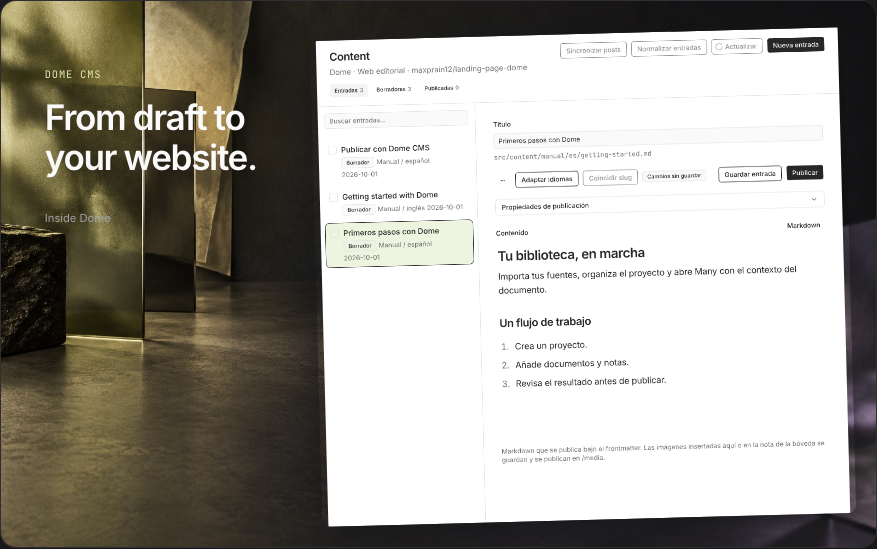
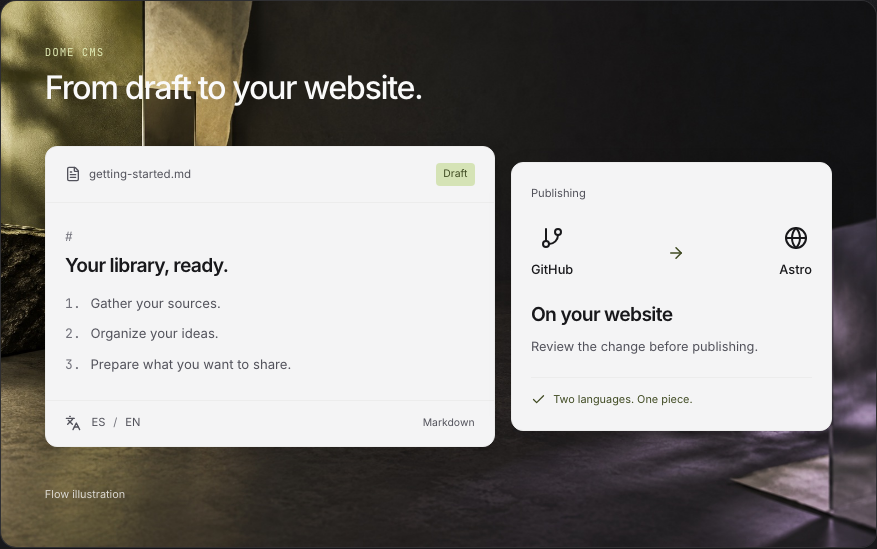
feat: simplify product visuals into editorial cards

diff --git a/e2e/embedded-manuals.spec.ts b/e2e/embedded-manuals.spec.ts
@@ -30,8 +30,9 @@ for (const locale of ['', '/en']) {
         expect((await page.request.get(new URL(socialImage!).pathname)).status()).toBe(200);
         const stage = page.locator('[data-product-visual]');
         await expect(stage).toBeVisible();
-        await expect(stage.locator('.stage-screen')).toHaveJSProperty('complete', true);
-        expect(await stage.locator('.stage-screen').evaluate((image: HTMLImageElement) => image.naturalWidth)).toBeGreaterThan(1000);
+        await expect(stage.locator('[data-flow-illustration]')).toBeVisible();
+        await expect(stage.locator('.stage-background')).toHaveJSProperty('complete', true);
+        expect(await stage.locator('.stage-background').evaluate((image: HTMLImageElement) => image.naturalWidth)).toBeGreaterThan(1000);
         await stage.locator('summary').click();
         await expect(stage.locator('.capture-gallery')).toBeVisible();
       }

diff --git a/docs/product-media.md b/docs/product-media.md
@@ -2,15 +2,15 @@
 
 Las fichas de complementos integran el Markdown del manual correspondiente con `EmbeddedManual.astro`. CMS, Extensión y Companion no son entradas del índice de manuales: sus rutas antiguas redirigen permanentemente a `#manual` en la ficha. La guía general de Complementos aparece dentro del catálogo. Los archivos Markdown y sus campos se conservan para editarlos desde Dome CMS.
 
-`ProductVisual.astro` compone una captura original sobre un escenario editorial generado. El texto se localiza en español e inglés y la galería permite ampliar las imágenes originales. El panel de Companion es **Many remoto en Desktop**, no una pantalla de iOS. Muestra el estado real sin conexión antes del emparejamiento.
+`ProductVisual.astro` presenta ilustraciones editoriales con tarjetas legibles sobre el escenario generado. Las composiciones explican los flujos del CMS, de la extensión y de Companion; son ilustraciones, no capturas de la interfaz. El texto se localiza en español e inglés. La galería inferior permite ampliar las capturas originales del producto. La captura de Companion corresponde a **Many remoto en Desktop**, antes del emparejamiento.
 
 ## Procedencia
 
-Capturas realizadas el 2026-10-01 con Electron y el renderer real de Dome, commit registrado en `public/product-captures/capture-provenance.json`. Cada ejecución crea perfiles `DOME_PROFILE` distintos y dos instancias sucesivas: CMS y Ajustes. CMS usa tres borradores locales de demostración. No se pulsa Publicar, Sincronizar, Traducir ni Generar código, ni se conecta una cuenta. Los píxeles de la interfaz no se regeneran ni se retocan; CSS solo posiciona y escala los PNG originales.
+Capturas realizadas el 2026-10-01 con Electron y el renderer real de Dome, commit registrado en `public/product-captures/capture-provenance.json`. Cada ejecución crea perfiles `DOME_PROFILE` distintos y dos instancias sucesivas: CMS y Ajustes. CMS usa tres borradores locales de demostración. No se pulsa Publicar, Sincronizar, Traducir ni Generar código, ni se conecta una cuenta. Los PNG originales de la galería no se regeneran ni se retocan. Las tarjetas de la composición principal se diseñan en HTML/CSS y se identifican como un flujo ilustrado.
 
 Componentes: listado, editor Markdown y propiedades de publicación de Dome CMS; ajustes de Extensión del navegador y de Many remoto. El script conserva los SHA-256 de cada archivo y el commit de Desktop.
 
-El fondo `public/product-captures/editorial-stage.jpg` procede de la herramienta nativa de generación de imágenes. Dirección del prompt: escenario físico editorial panorámico, carbón mate, planos de vidrio y materiales con luz oliva a la izquierda y lavanda tenue a la derecha, espacio para componer una captura; sin texto, dispositivos, marcas ni interfaz. Se convirtió a JPEG al 85 % para reducir el peso; la interfaz procede exclusivamente de los PNG capturados. Las composiciones exportadas se guardan en `public/product-captures/compositions/`.
+El fondo `public/product-captures/editorial-stage.jpg` procede de la herramienta nativa de generación de imágenes. Dirección del prompt: escenario físico editorial panorámico, carbón mate, planos de vidrio y materiales con luz oliva a la izquierda y lavanda tenue a la derecha, espacio para componer una captura; sin texto, dispositivos, marcas ni interfaz. Se convirtió a JPEG al 85 % para reducir el peso; las tarjetas ilustrativas se construyen con los tokens de marca y las capturas originales permanecen en la galería. Las composiciones exportadas se guardan en `public/product-captures/compositions/`.
 
 ## Reproducir las capturas
 
@@ -28,7 +28,7 @@ DOME_MEDIA_RENDERER_URL=http://localhost:14573 node scripts/capture-dome-media.m
 
 Se requieren las dependencias de Electron y Playwright del checkout Desktop. El script usa IPC y stores reales para navegar, espera a que terminen las transiciones y captura los componentes con `locator.screenshot`. Selecciona expresamente el puerto dedicado porque WindowManager todavía carga 5173 por defecto. El bridge IPC usa un puerto efímero. Los perfiles de demostración permanecen aislados del perfil personal.
 
-Para exportar las seis composiciones desde el HTML construido, inicia `pnpm run start` en un puerto local y ejecuta `node scripts/export-product-compositions.mjs http://127.0.0.1:14330`. No modifica las capturas fuente. Las versiones `-en` localizan los titulares; el panel original conserva el idioma de la instancia capturada. Las fichas usan estas composiciones también como imagen al compartir el enlace.
+Para exportar las seis composiciones desde el HTML construido, inicia `pnpm run start` en un puerto local y ejecuta `node scripts/export-product-compositions.mjs http://127.0.0.1:14330`. No modifica las capturas fuente. Las versiones `-en` localizan todos los textos de las tarjetas. Los PNG de la galería conservan el idioma de la instancia capturada. Las fichas usan estas composiciones también como imagen al compartir el enlace.
 
 ## Validación
 
